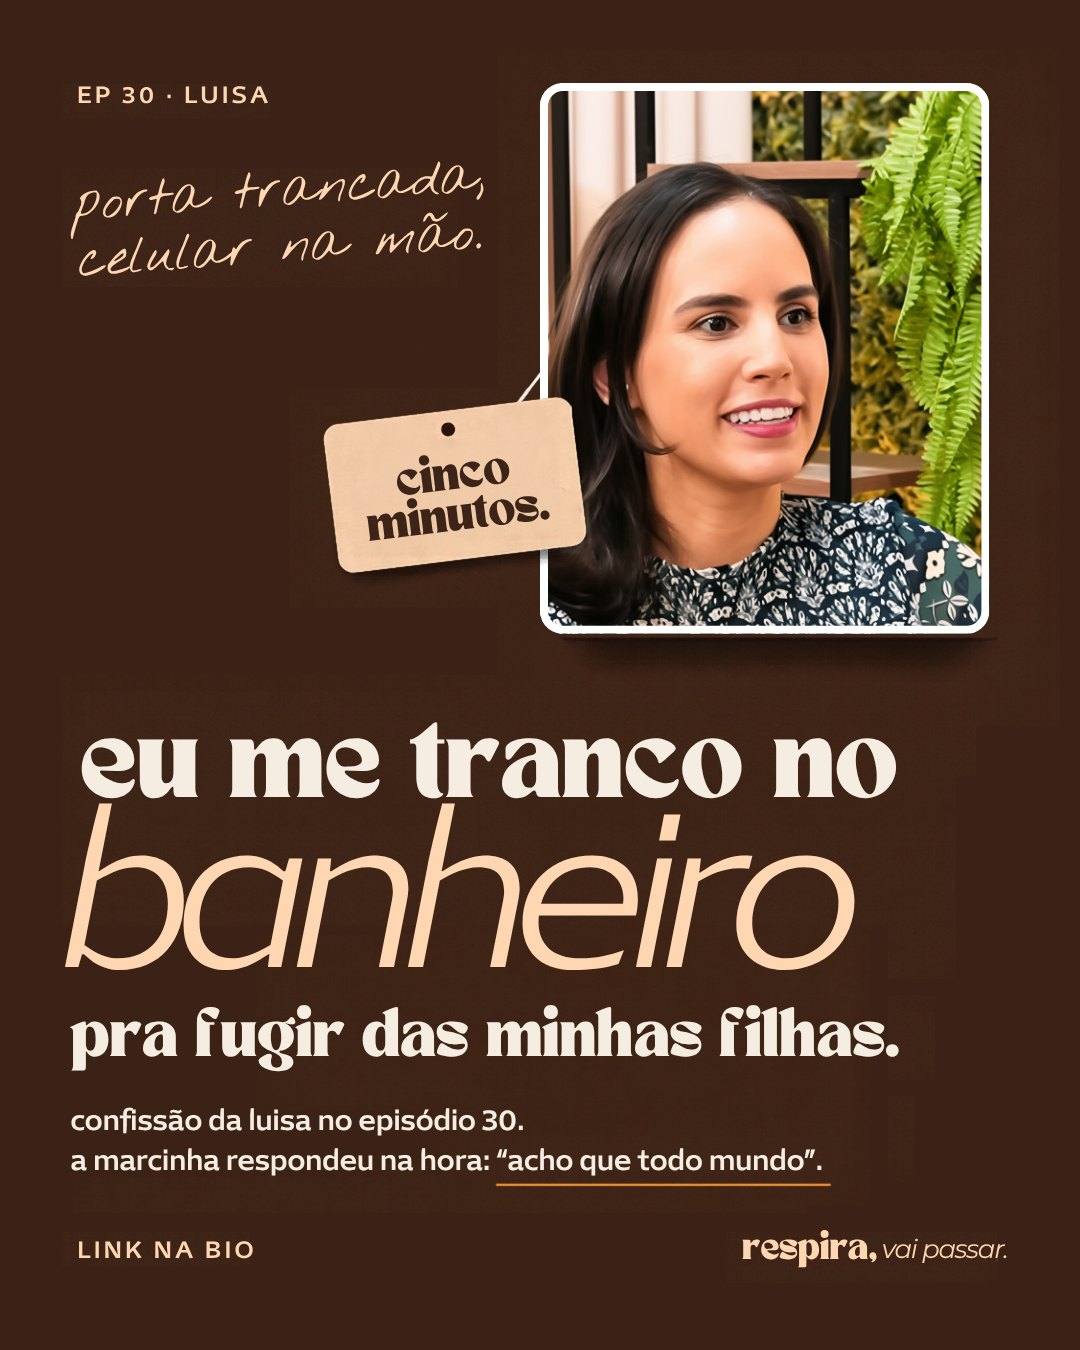
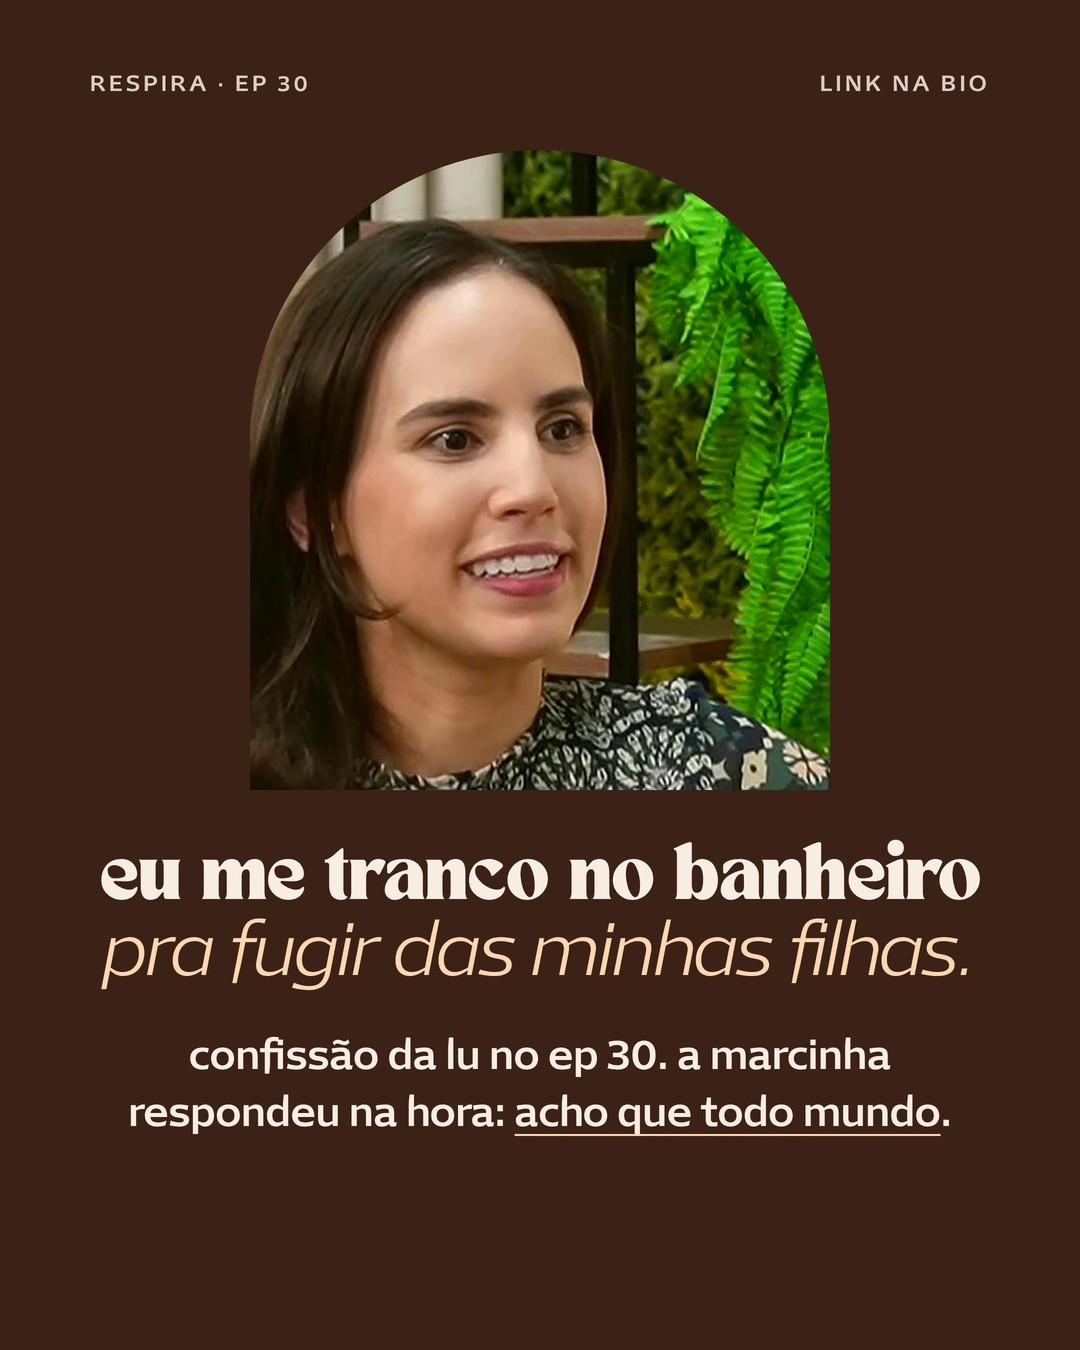
Estáticos de 05/12, 19/12 e 02/01 refeitos com o design limpo
Claude-Session: https://claude.ai/code/session_01C5h4HANprbeLZgGFpCYk5C

diff --git a/posts_data.js b/posts_data.js
@@ -110,7 +110,7 @@ const POSTS = [
   { data:"2026-12-03", tema:"Corte do episódio", placeholder:true },
   { data:"2026-12-04", tema:"Identificação", tipo:"carrossel", titulo:"Carrossel do EP 36: o único medo da gravidez dela", legenda:"\"Mamãe, eu queria nascer prematura e você não deixou.\"\n\nA Tereza disse isso há pouco tempo, do nada. E a Marcinha, que passou a gravidez inteira contando as semanas, respondeu sem pensar duas vezes: não deixei mesmo.\n\nObstetra, ela não teve medo do parto. O medo era a Tereza chegar antes. No episódio 36, gravado para o Novembro Roxo, a neonatologista Luisa Petri conversa com a Marcinha e a Lu sobre os bebês que chegam antes e as famílias que esperam por eles na UTI. Link na bio.\n\n#RespiraVaiPassar #NovembroRoxo #Prematuridade #Gravidez #MaternidadeReal", slides:[{img:"imagens/p32-1.jpg"},{img:"imagens/p32-2.jpg"},{img:"imagens/p32-3.jpg"},{img:"imagens/p32-4.jpg"},{img:"imagens/p32-5.jpg"},{img:"imagens/p32-6.jpg"},{img:"imagens/p32-7.jpg"}] },
   { data:"2026-12-05", tema:"Identificação", tipo:"imagem", titulo:"O parto acontece entre as orelhas, não entre as pernas", legenda:"A analgesia é a intervenção mais usada no trabalho de parto, e não tem nada de errado nisso. A Marcinha costuma repetir uma frase que resume bem o que ela vê todos os dias no consultório: o parto acontece entre as orelhas, não entre as pernas. A cabeça da mulher, o quanto ela se sente segura e acompanhada, pesa tanto quanto a parte física. Ela já teve uma assistência de 44 horas, a mais longa da carreira dela, e segue acreditando nisso.\n\nA assistência mais longa da carreira dela está nesse episódio. 44 horas. Episódio 5, link na bio.\n\n#RespiraVaiPassar #TrabalhoDeParto #PartoHumanizado", slides:[
-      {img:"imagens/p24-1.jpg"}
+      {img:"imagens/p24-1.jpg?v=2"}
     ] },
   { data:"2026-12-07", tema:"Corte do episódio", placeholder:true },
   { data:"2026-12-08", tema:"Tema da semana", placeholder:true },
@@ -124,7 +124,7 @@ const POSTS = [
   { data:"2026-12-17", tema:"Corte do episódio", placeholder:true },
   { data:"2026-12-18", tema:"Carrossel do episódio", placeholder:true },
   { data:"2026-12-19", tema:"Humor", tipo:"imagem", titulo:"Eu me tranco no banheiro pra fugir das minhas filhas", legenda:"Porta trancada, celular na mão, alguns minutos fora daquela realidade. A Luisa admitiu que faz isso desde que a Sofia era bebê e alguém batia na porta pedindo pra agilizar. Anos depois, continua. Ela sabe que um dia vai sentir falta de ouvir \"mamãe, mamãe, mamãe\". Hoje, às vezes, só quer cinco minutos de banheiro. Essa foi uma das confissões do episódio 30, um bate-papo mais curto entre a Luisa e a Marcinha sobre o que muita mãe pensa e não fala.\n\nTem mais confissão de mãe que ninguém admite no episódio 30. Link na bio.\n\n#RespiraVaiPassar #MaternidadeReal #HumorMaterno", slides:[
-      {img:"imagens/p26-1.jpg"}
+      {img:"imagens/p26-1.jpg?v=2"}
     ] },
   { data:"2026-12-21", tema:"Corte do episódio", placeholder:true },
   { data:"2026-12-22", tema:"Tema da semana", placeholder:true },
@@ -138,7 +138,7 @@ const POSTS = [
   { data:"2026-12-31", tema:"Corte do episódio", placeholder:true },
   { data:"2027-01-01", tema:"Carrossel do episódio", placeholder:true },
   { data:"2027-01-02", tema:"Humor", tipo:"imagem", titulo:"Quem pode tocar na sua barriga de grávida", legenda:"Tem gente que acha que barriga de grávida é propriedade pública. No episódio sobre gestação, a Marcinha e a Luisa falam sobre as polêmicas que toda mulher grávida enfrenta: quem pode tocar na barriga, o que fazer com o ranço do parceiro sumindo, se dá pra conversar com o bebê e como fica a vida sexual durante a gravidez. Respira fundo e lembra: seu corpo, suas regras.\n\nA resposta pra essa pergunta rende risada garantida. Episódio 3, link na bio.\n\n#RespiraVaiPassar #Gestação #MaternidadeReal", slides:[
-      {img:"imagens/p28-1.jpg"}
+      {img:"imagens/p28-1.jpg?v=2"}
     ] },
   { data:"2027-01-04", tema:"Corte do episódio", placeholder:true },
   { data:"2027-01-05", tema:"Tema da semana", placeholder:true },
